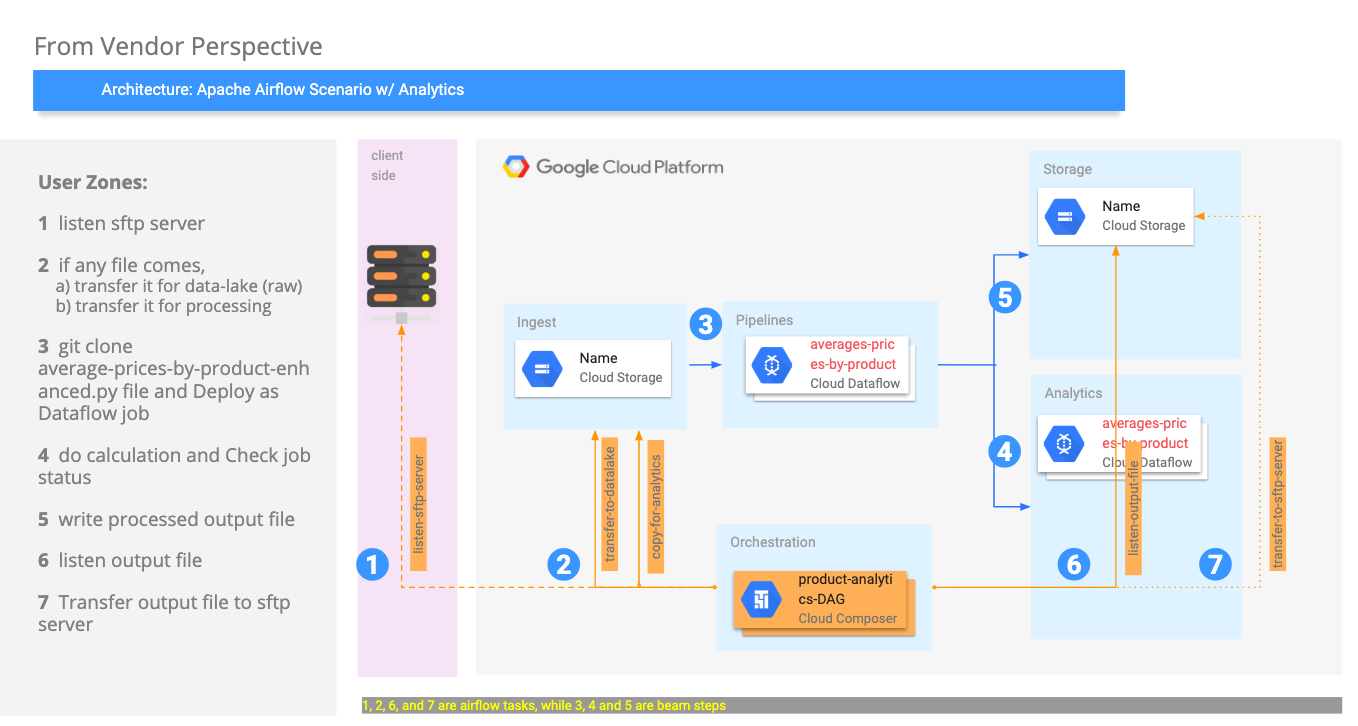
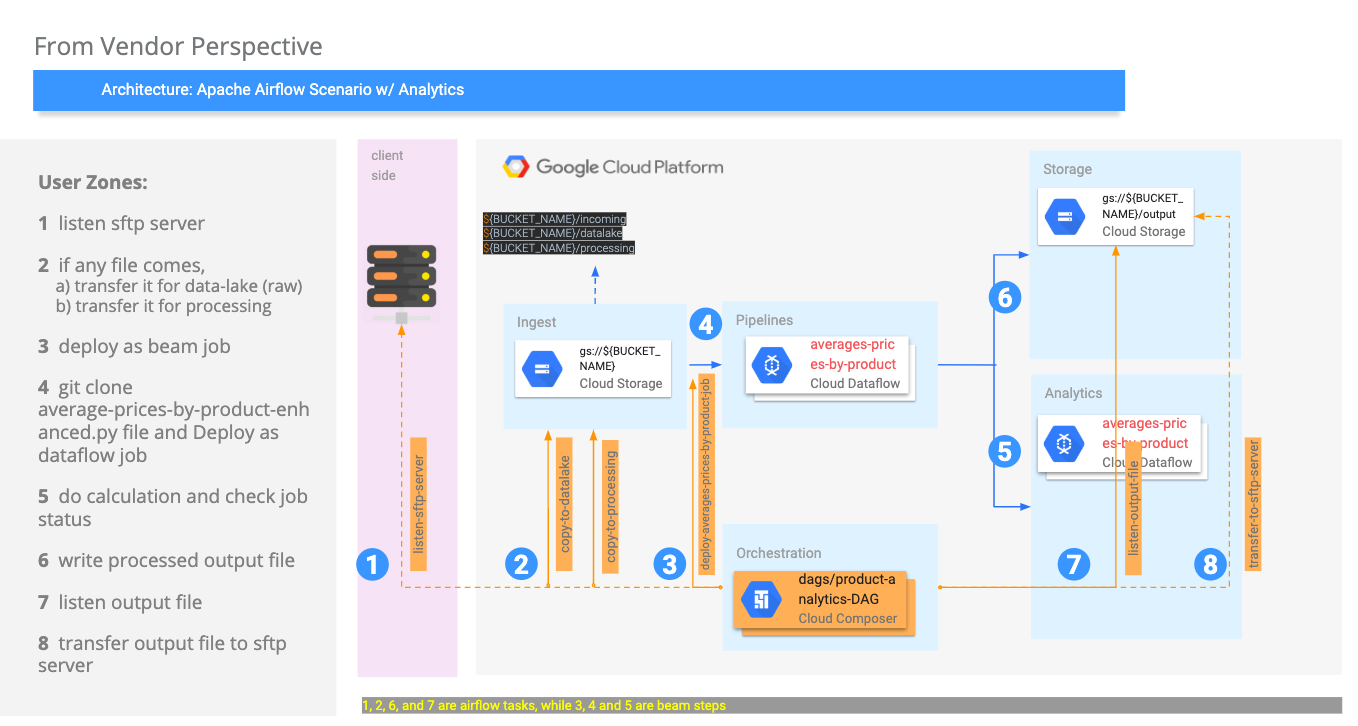
average-product-prices

diff --git a/product-analytics/product-analytics-DAG.py b/product-analytics/product-analytics-DAG.py
@@ -29,7 +29,7 @@ default_args = {
 
 with DAG('product-analytics', default_args=default_args, schedule_interval=timedelta(minutes=10)) as dag:
 
-    # TODO: not implemented for now
+    # TODO: not implemented
     # listen customers FTP server folder w/ sensor
     # define sftp-default connection in Airflow UI
     t1 = SFTPSensor(
@@ -37,31 +37,40 @@ with DAG('product-analytics', default_args=default_args, schedule_interval=timed
         bash_command=''
     )
 
-    # TODO: not implemented for now
-    # copy from sftp to gcp storage
+    # TODO: not implemented
+    # copy from sftp to gcp storage's incoming folder
+    # scenario will start right from here !
     t2 = SFTPOperator(
-        task_id='transfer-to-datalake',
+        task_id='transfer-to-incoming',
         bash_command=''
     )
 
-    # copy from gcs to process bucket for analytical calculations
+    # copy from gcs to datalake for raw data storing
     t3 = GoogleCloudStorageToGoogleCloudStorageOperator(
-        task_id='copy-for-analytics',
+        task_id='copy-to-datalake',
+        bash_command=''
+    )
+
+    # copy from gcs to process for analytical calculations
+    t4 = GoogleCloudStorageToGoogleCloudStorageOperator(
+        task_id='copy-to-processing',
         bash_command=''
     )
 
     # git clone average-prices-by-product-enhanced.py file ?????
     # deploy to GCP dataflow as a beam job, and check GCP dataflow job status
-    t4 = DataFlowPythonOperator(
-        task_id='copy-for-analytics',
+    t5 = DataFlowPythonOperator(
+        task_id='deploy-averages-prices-by-product-job',
         bash_command=''
     )
 
     # Listen output folder w/ sensor
     t5 = GoogleCloudStorageObjectSensor(
-        task_id='copy-for-analytics',
+        task_id='copy-to-processing',
         bash_command=''
     )
+
+    # TODO: not implemented for now
     # transfer output file to SFTP server
     t6 = SFTPOperator(
         task_id='transfer-to-datalake',
